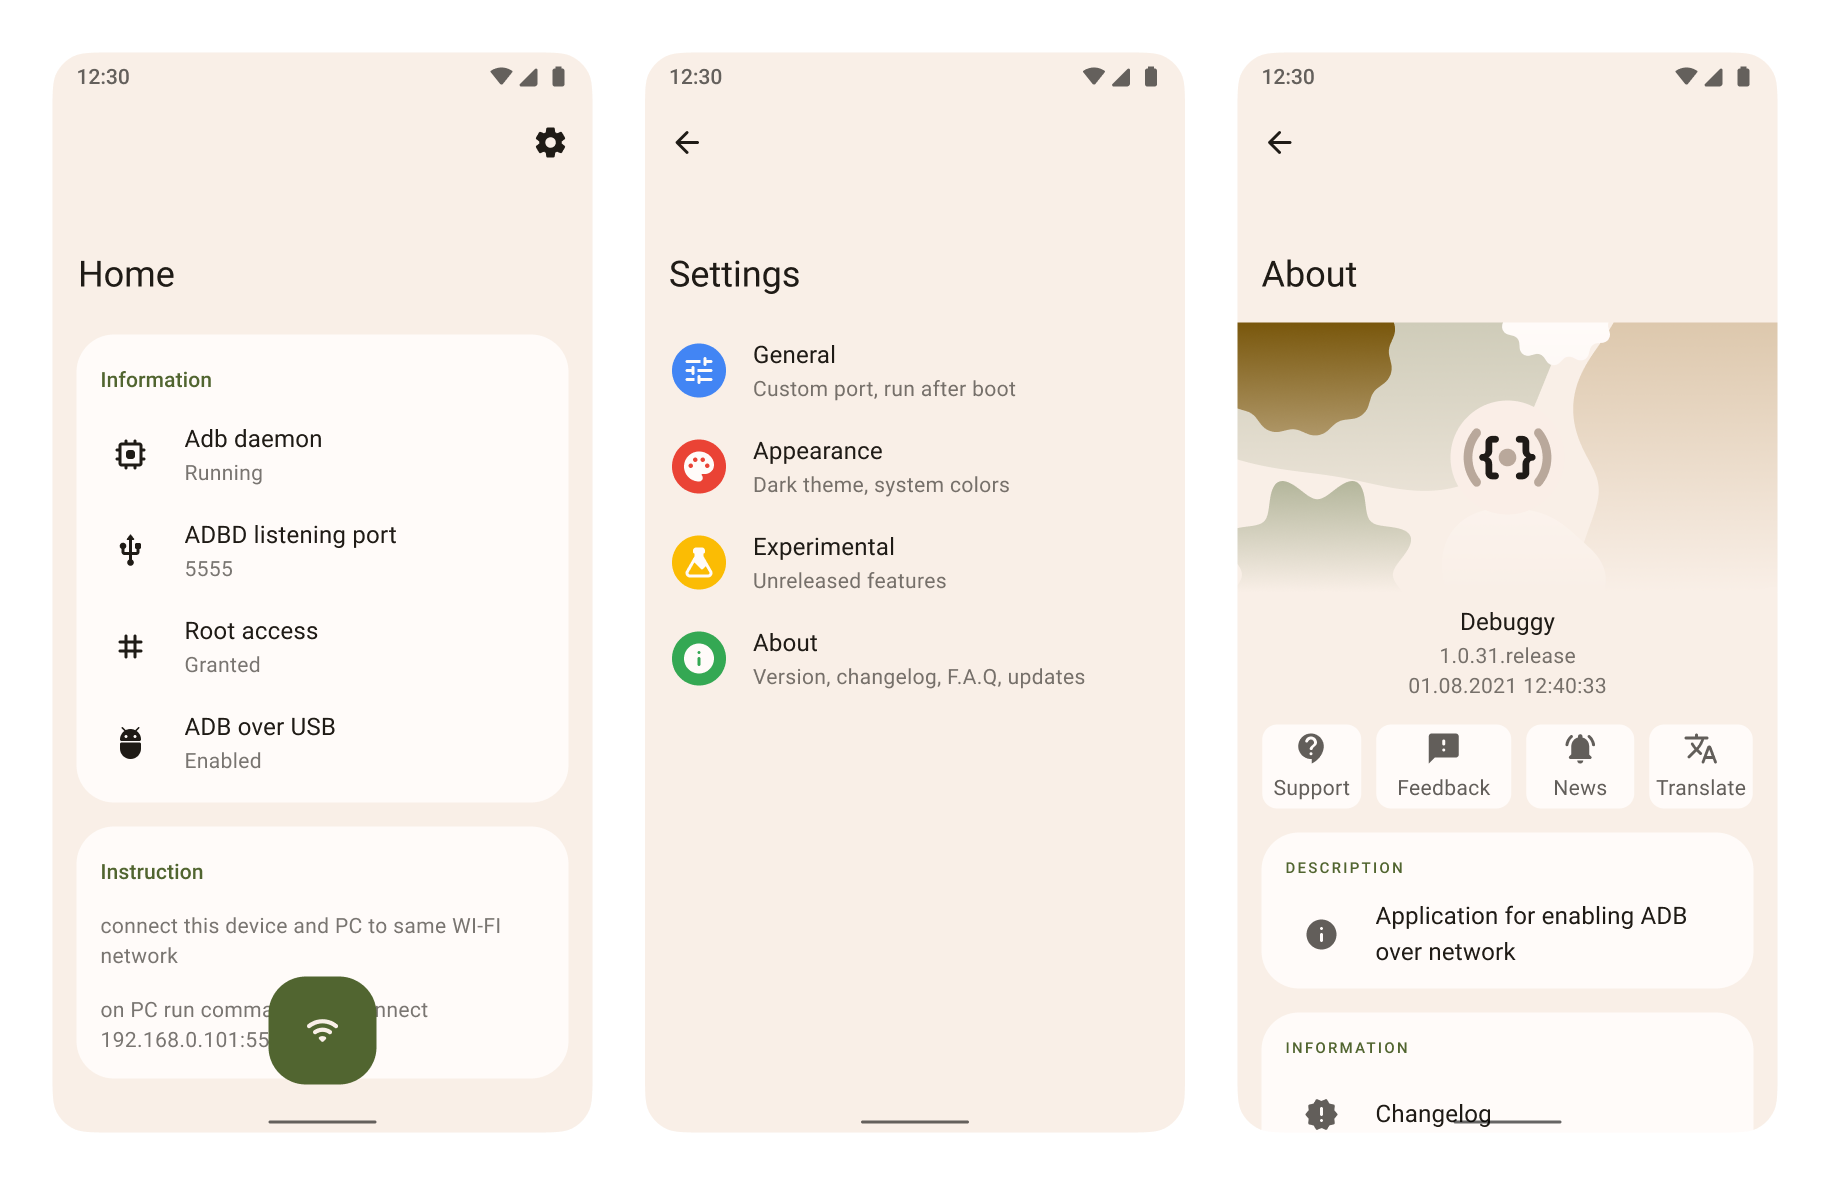
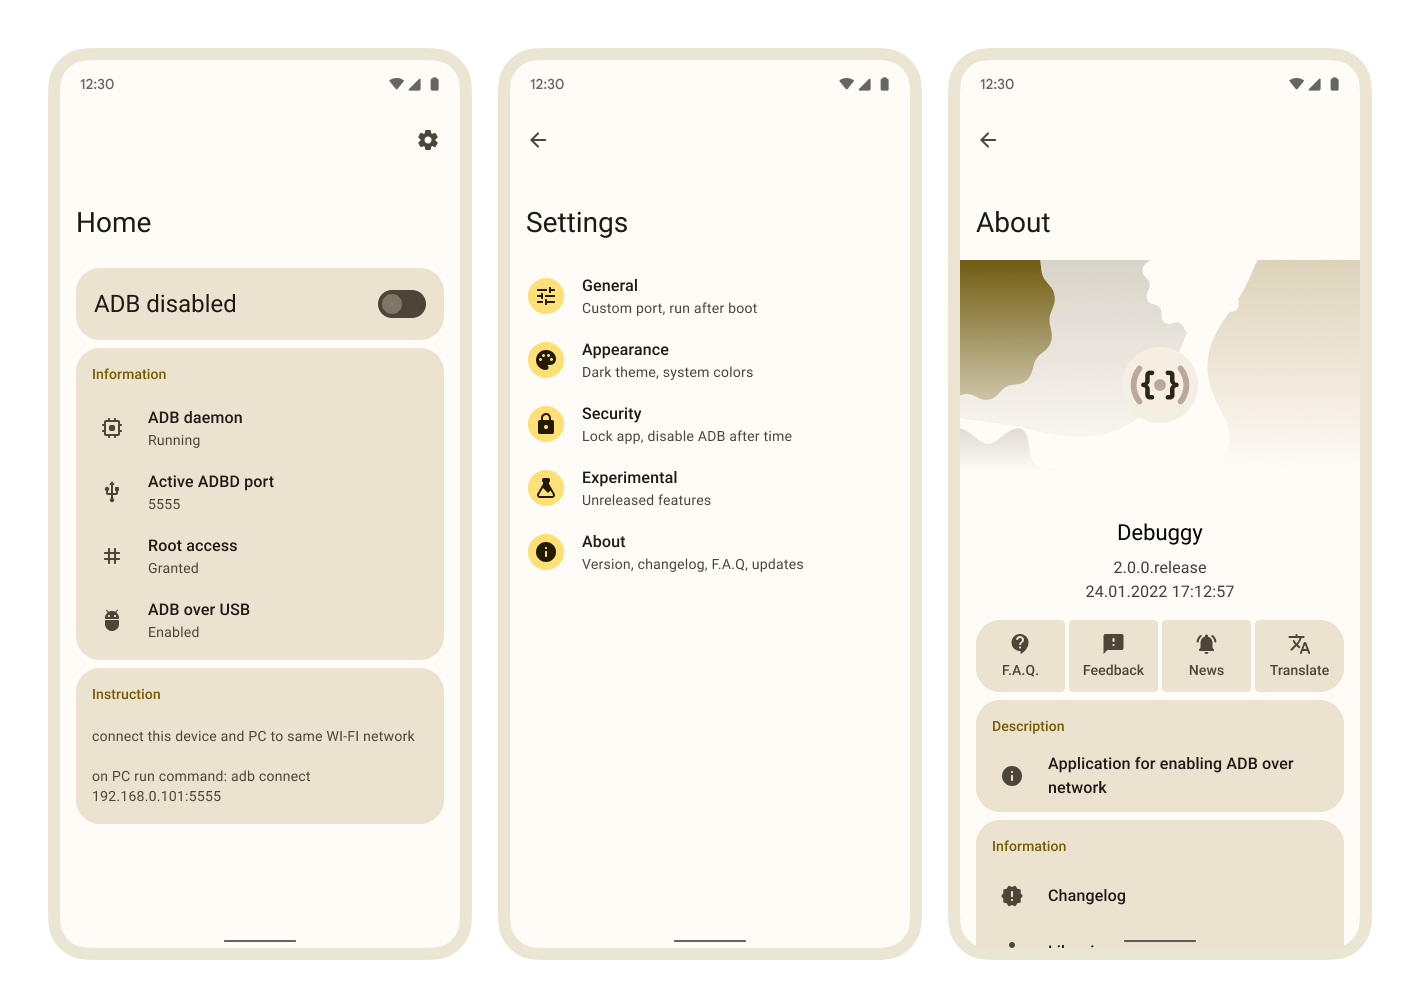
• [Update][README] New mockups

diff --git a/README.md b/README.md
@@ -8,8 +8,9 @@ Application for enable android debug bride over network with some additional fea
 * Enable ADB over network with just a few clicks 
 * Run ADB over network after boot device
 * Custom port support
-* Android 12 features, like [dynamic color (monet)](.github/images/monet.png) support
-
+* Disable ADB after some time
+* Material 3 full support
+![material3](.github/images/monet.png)
 ## License
 
     Copyright 2021 Jeffrey Turns
